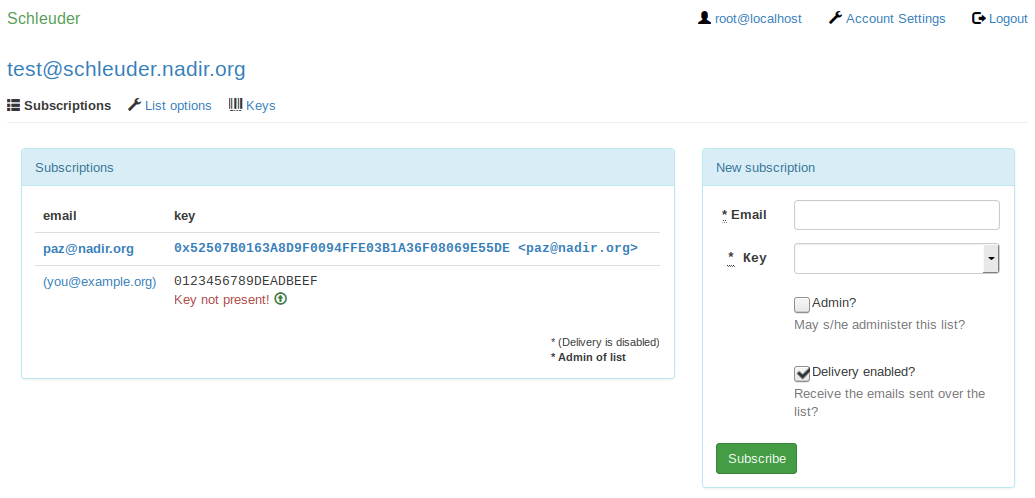
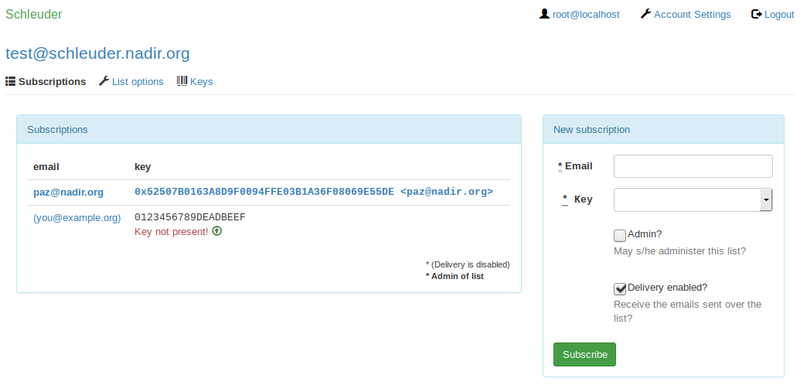
Smaller screenshot, lower on page.

Changed region(s): [[0.0, 0.187, 0.0938, 0.2182], [0.7188, 0.4052, 0.75, 0.4364]]

diff --git a/README.md b/README.md
@@ -2,10 +2,6 @@
 
 This is a full featured web interface to administrate [Schleuder3](https://git.codecoop.org/schleuder/schleuder3)-lists and subscriptions.
 
-<kbd>
-![Screenshot of schleuder-web](doc/schleuder-web-screenshot.png)
-</kbd>
-
 ##  Installation
 
 ### To have a glimpse
@@ -53,3 +49,10 @@ See also `rake notes`
 ## License
 
 GNU GPL version 3.
+
+## Screenshot
+
+<kbd>
+![Screenshot of schleuder-web](doc/schleuder-web-screenshot.png)
+</kbd>
+
